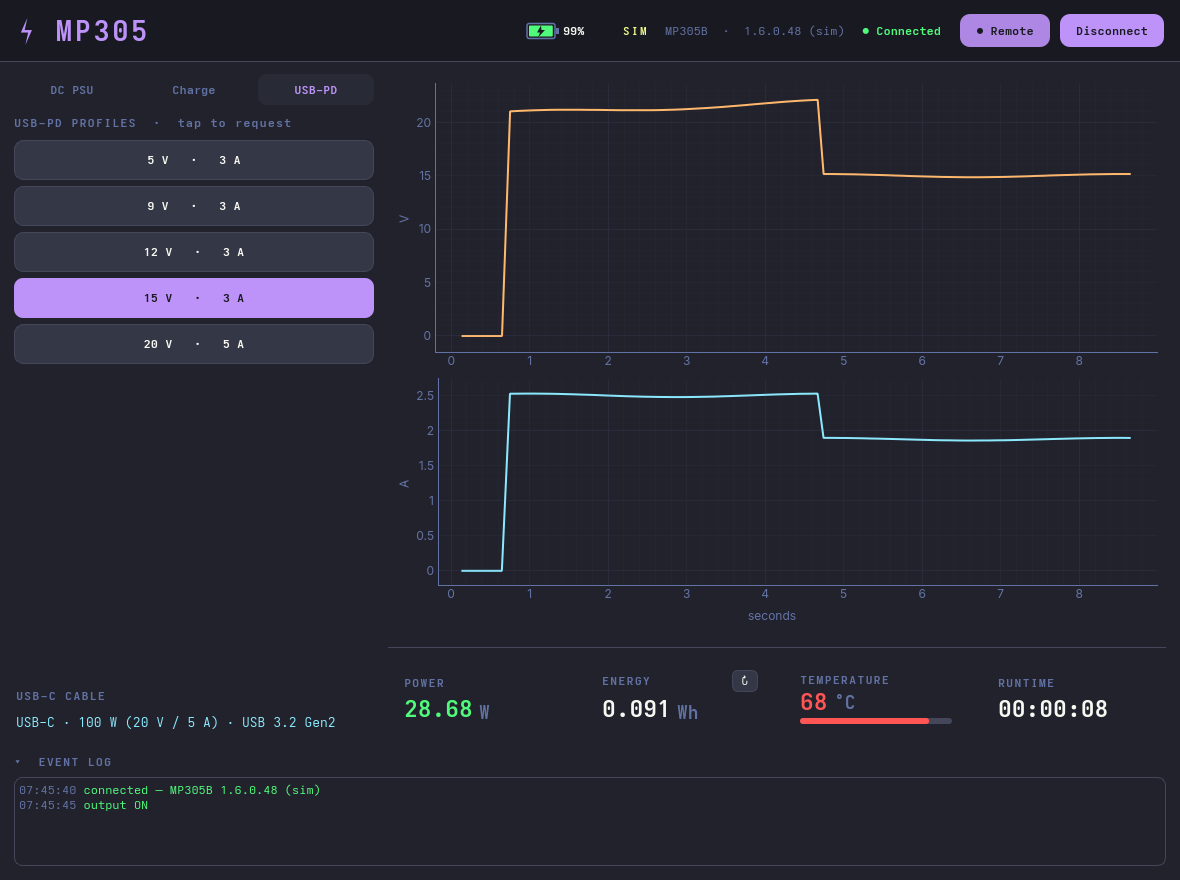
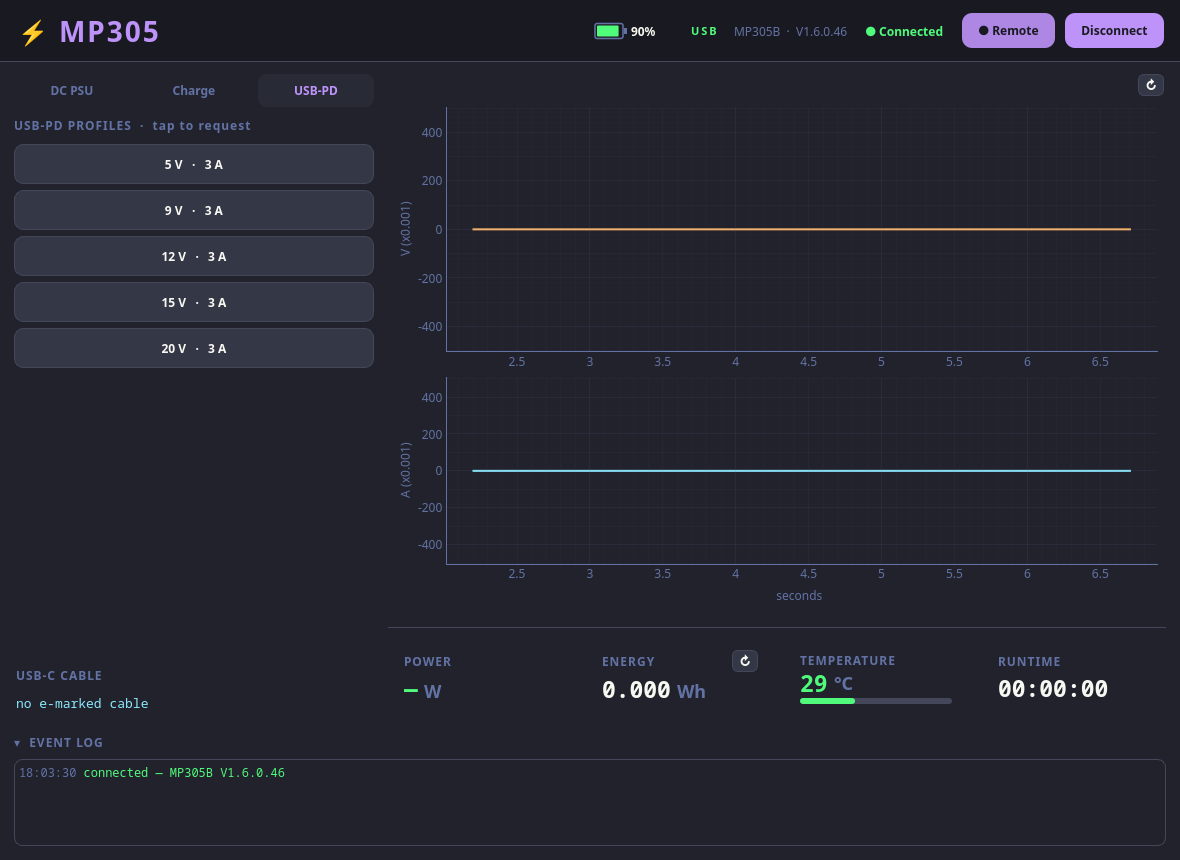
gui+lib: fix USB-PD read path, verify PD source decode, real USB-PD screenshot
Verified on the real MP305B: it is a USB-PD *source* with 7 selectable power
profiles (12/18/20/30/36/45/60 W), and the driver decodes them all correctly
(per-voltage currents taper per spec and scale with wattage).

- lib: add read_pdo_index() (0xE4->0xE5) — the active source profile index.
- gui: RealBackend._caps() read no PDOs (broke on the first empty index, read
  wrong item keys 'v'/'a', and modelled one-profile-per-index). It now reads the
  active profile via read_pdo_index()+read_pdo() and shows its voltage_v/current_a
  points. Verified: active 60 W profile -> 5/9/12/15/20 V @ 3 A.
- Refreshed gui/usbpd-mode.png from the real device (dark theme, real profiles).

46 tests pass.

diff --git a/gui/mp305gui/backend.py b/gui/mp305gui/backend.py
@@ -70,21 +70,27 @@ class RealBackend:
         return d
 
     def _caps(self):
-        # cable + PDO list don't change live — read once, cache. (Untested on hardware.)
+        # cable + PDO list don't change live — read once, cache.
+        # The MP305 is a USB-PD *source* with several power profiles; the active one
+        # (0xE4) lists the voltage points it offers (5/9/12/15/20 V, each with a
+        # current). Show those. (Verified against a real 60 W source on hardware.)
         if not hasattr(self, "_em"):
             try:
                 em = self._psu.read_emarker()
-                self._em = em.get("summary") or ("USB-C cable" if em.get("present") else "no e-marked cable")
+                self._em = "USB-C cable" if em.get("present") else "no e-marked cable"
             except Exception:
                 self._em = "—"
             self._pl = []
-            for i in range(8):
-                try:
-                    p = self._psu.read_pdo(i)
-                    if p and p.items:
-                        self._pl.append((p.items[0].get("v", 0.0), p.items[0].get("a", 0.0)))
-                except Exception:
-                    break
+            try:
+                idx = self._psu.read_pdo_index()
+                self._pdo_sel = idx
+                p = self._psu.read_pdo(idx)
+                for it in (p.items if p else []):
+                    v, a = it.get("voltage_v", 0.0), it.get("current_a", 0.0)
+                    if v > 0:
+                        self._pl.append((v, a))
+            except Exception:
+                pass
         return self._em, self._pl
 
     def apply(self, v=None, a=None, on=None):

diff --git a/python/pymp305/device.py b/python/pymp305/device.py
@@ -415,6 +415,12 @@ class MP305:
         f = self.request(cmd, P.RESP_PDO, payload, timeout_ms)
         return PDO.parse(f.values, index=5)
 
+    def read_pdo_index(self, timeout_ms: int = 1500) -> int:
+        """The device's active USB-PD source-profile index (0xE4 -> 0xE5).
+        Use it with read_pdo() to get the voltage points the source currently offers."""
+        f = self.request(0xE4, 0xE5, timeout_ms=timeout_ms)
+        return f.payload[0] if f.payload else 0
+
     def pdo_connect(self, conn: C.PDOConnect, timeout_ms: int = 1500) -> P.Frame:
         cmd, payload = conn.build()
         return self._connect(cmd, P.RESP_PDO_CONNECT, payload, timeout_ms)

diff --git a/python/tests/test_endtoend.py b/python/tests/test_endtoend.py
@@ -173,6 +173,12 @@ def test_e2e_write_program_request():
     assert P.parse_report(psu._dev.written[0]).cmd == 0xDA
 
 
+def test_e2e_read_pdo_index():
+    psu = MP305(FakeHID([_resp(0xE5, bytes([7]))]))
+    assert psu.read_pdo_index() == 7
+    assert P.parse_report(psu._dev.written[0]).cmd == 0xE4
+
+
 def test_e2e_pdo_connect_request():
     # pdo_connect goes through the shared remote handshake first (0xC8 remoteCon=2)
     psu = MP305(FakeHID([

diff --git a/CHANGELOG.md b/CHANGELOG.md
@@ -13,6 +13,8 @@ All notable changes to `pymp305`. Versions follow semver (pre-1.0: minor = featu
   *lowered* current limit engages constant-current mode immediately.
 - **`set_output(..., current_over=…)`** — set the over-current behaviour (0 = CC, 1 = OCP)
   through the normal remote-handshake path.
+- **`read_pdo_index()`** — the device's active USB-PD source-profile index (`0xE4`→`0xE5`);
+  pair with `read_pdo()` to get the voltage points the source currently offers.
 
 ### Fixed
 - **CV/CC regulation status was inverted.** `outState` is `1 = CV, 2 = CC` on real hardware
@@ -21,9 +23,13 @@ All notable changes to `pymp305`. Versions follow semver (pre-1.0: minor = featu
 - **GUI mode switching** now uses the driver's `set_mode()` (the old backend built a raw
   `0xC8` that only worked from DC); **GUI CC/OCP toggle** now goes through the remote
   handshake via `set_output(current_over=…)`.
-- Refreshed `gui/dashboard.png` from the **real MP305B** (DC mode, live charts into a 390 Ω
-  load). Other GUI shots stay simulator-rendered (charge needs a battery; the USB-PD data
-  path has separate pre-existing bugs; the keypad is a modal overlay).
+- **GUI USB-PD list** now shows the active source profile's real voltage points. The backend
+  `_caps()` read no PDOs (it broke on the first empty index and read wrong item keys); it now
+  reads the active profile (`read_pdo_index()` → `read_pdo()`) and its `voltage_v`/`current_a`
+  items. Verified against a real 60 W source (5/9/12/15/20 V @ 3 A).
+- Refreshed `gui/dashboard.png` and `gui/usbpd-mode.png` from the **real MP305B** (dark theme).
+  Charge and keypad shots stay simulator-rendered (charge needs a battery; the keypad is a
+  modal overlay).
 
 ### Notes
 - **Device quirk (MP305B, app V1.6.0.46):** lowering the current limit while the output is